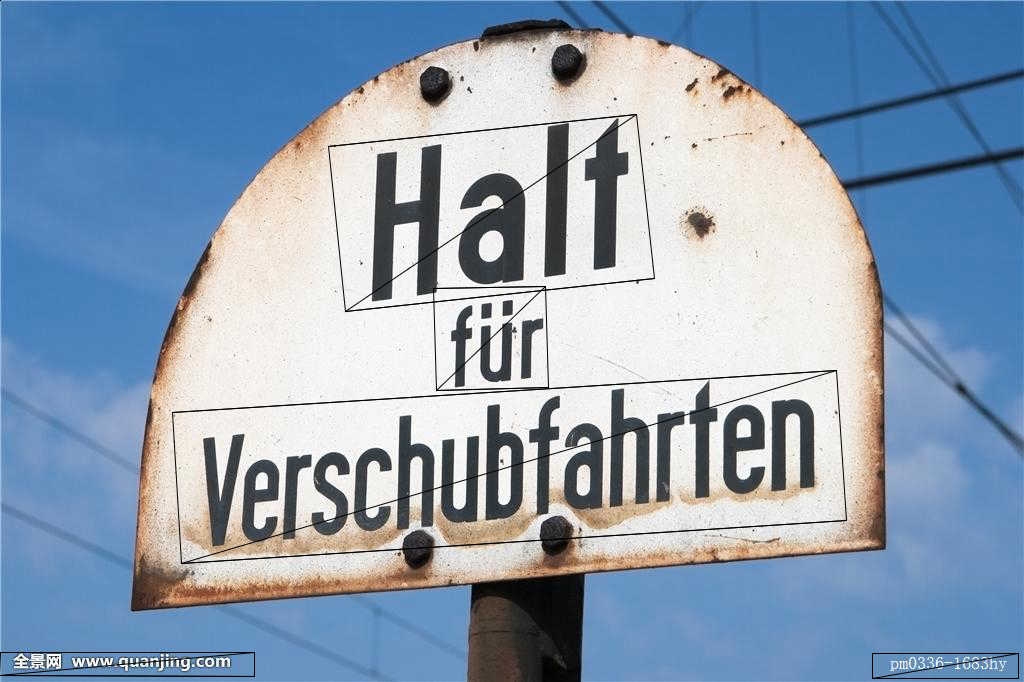
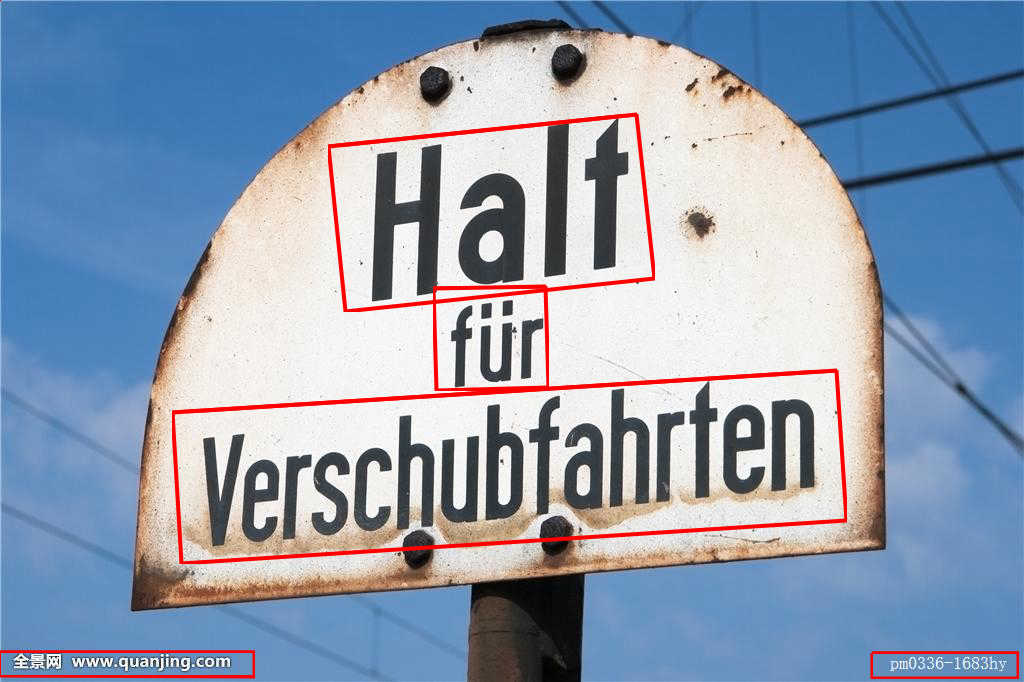
Draw function changed

diff --git a/main.js b/main.js
@@ -40,30 +40,18 @@ export default class CTPN{
             if (tf.norm(box[0] - box[1]) < 5 || tf.norm(box[3] - box[0]) < 5) continue;
 
             const ctx = image.getContext('2d');
-
             ctx.beginPath();
             ctx.strokeStyle = color;
-            ctx.moveTo(box[0] / scale, box[1] / scale);
-
+            ctx.lineWidth = 4;
+            ctx.moveTo(box[0]/ scale, box[1]/ scale);
             ctx.lineTo(box[2] / scale, box[3] / scale);
-            ctx.moveTo(box[2] / scale, box[3] / scale);
-            ctx.lineTo(box[0] / scale, box[1] / scale);
-            ctx.moveTo(box[0] / scale, box[1] / scale);
 
             ctx.lineTo(box[0] / scale, box[1] / scale);
-            ctx.moveTo(box[0] / scale, box[1] / scale);
             ctx.lineTo(box[4] / scale, box[5] / scale);
-            ctx.moveTo(box[4] / scale, box[5] / scale);
 
             ctx.lineTo(box[6] / scale, box[7] / scale);
-            ctx.moveTo(box[6] / scale, box[7] / scale);
             ctx.lineTo(box[2] / scale, box[3] / scale);
-            ctx.moveTo(box[2] / scale, box[3] / scale);
 
-            ctx.lineTo(box[4] / scale, box[5] / scale);
-            ctx.moveTo(box[4] / scale, box[5] / scale);
-            ctx.lineTo(box[6] / scale, box[7] / scale);
-            ctx.moveTo(box[6] / scale, box[7] / scale);
             ctx.stroke();
             ctx.closePath();
 
@@ -76,3 +64,24 @@ export default class CTPN{
     }
 
 }
+
+(async ()=> {
+    const cfg = {
+        NMS_FUNCTION: 'TF',
+        ANCHOR_SCALES: [16],
+        PIXEL_MEANS: tf.tensor([[[102.9801, 115.9465, 122.7717]]]),
+        SCALES: [600,] ,
+        MAX_SIZE:  1000,
+        HAS_RPN: true,
+        DETECT_MODE: 'O',
+        pre_nms_topN: 12000,
+        post_nms_topN: 2000,
+        nms_thresh:0.7,
+        min_size: 8,
+    };
+    const ctpn = new CTPN(cfg);
+    const image = './test/007.jpg';
+    const predicted = await ctpn.predict(image);
+    console.log(predicted);
+    ctpn.draw(image,'res.jpg',...predicted, 'red')
+})();
